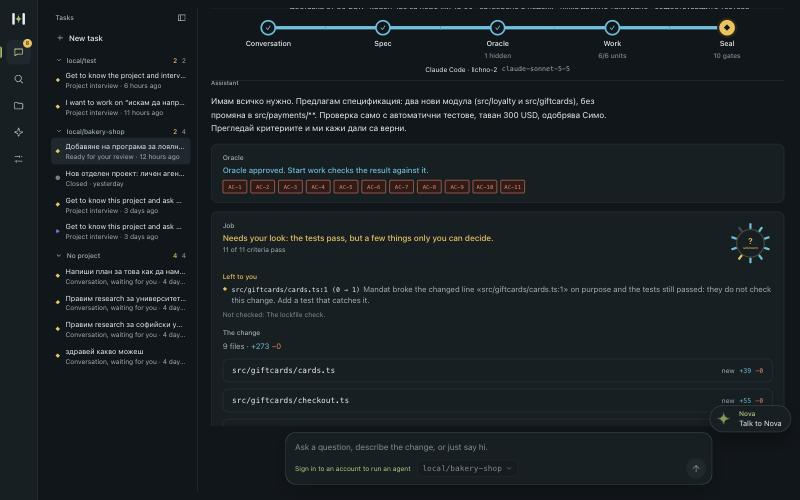
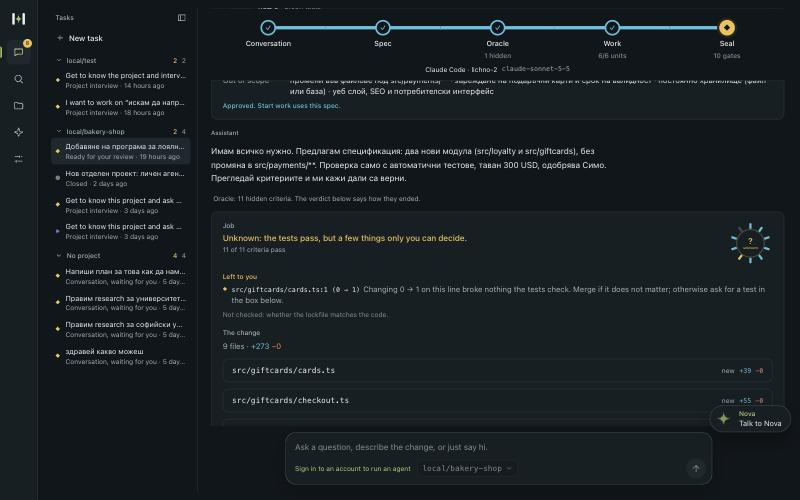
docs: D-707 role wording; seal card screenshots after the critics

diff --git a/docs/decisions.md b/docs/decisions.md
@@ -6364,7 +6364,7 @@ apps/desktop builder-config.test.ts (+1). Статус: решено (задач
 критерий, един по един. Само команди, които shell-ът му позволява както са написани (`plainCheck`, същото правило като
 `checkPatterns`); lint с `{files}` става „<the files you changed>“. Изрично: провал, който го има и без промяната, не е
 негов — да не пипа несвързани файлове (D8 брои проверка само ако минава на базата, а чужд файл чупи D4). Писателят на
-оракула не получава тези редове: работникът му дава субект `oracle`, защото тестовете му трябва да са червени и внасят
+оракула не получава тези редове (`CompileCtx.role = "oracle"`, D-713), защото тестовете му трябва да са червени и внасят
 модули, които още ги няма. Договорът (`/m/in/contract.txt`) не се пипа: форматът му, с „(no data)“, е от спецификацията
 (D-101).
 Защо: D8 съди по същите команди (`checksFromCommands`), а агентът знаеше само „пусни тестовете“. В рънове 5–10 на М4
@@ -6372,7 +6372,7 @@ apps/desktop builder-config.test.ts (+1). Статус: решено (задач
 брои наново на следващия рън). Първото правило в https://code.claude.com/docs/en/best-practices (прочетено 26.11.2026):
 дай на агента проверката, която ще го съди, и искай да я пусне. Критикът на архитектурата хвана три грешки в първия
 вариант (оракулът, командите с shell синтаксис, чуждите провали) — поправени тук.
-Тестове: profile compile.test.ts (+2, снимките обновени), worker oracle.test.ts (+1). Статус: решено от кодера.
+Тестове: profile compile.test.ts (+2, снимките обновени). Статус: решено от кодера.
 
 ## D-708 Цялата промяна на работата се пази за картата, под крайната проверка (нощта 26→27.11.2026, кодерът сам)
 Решение: при присъдата на крайната проверка на работа (`job_role = 'final'`) работникът пази нейния собствен износ
